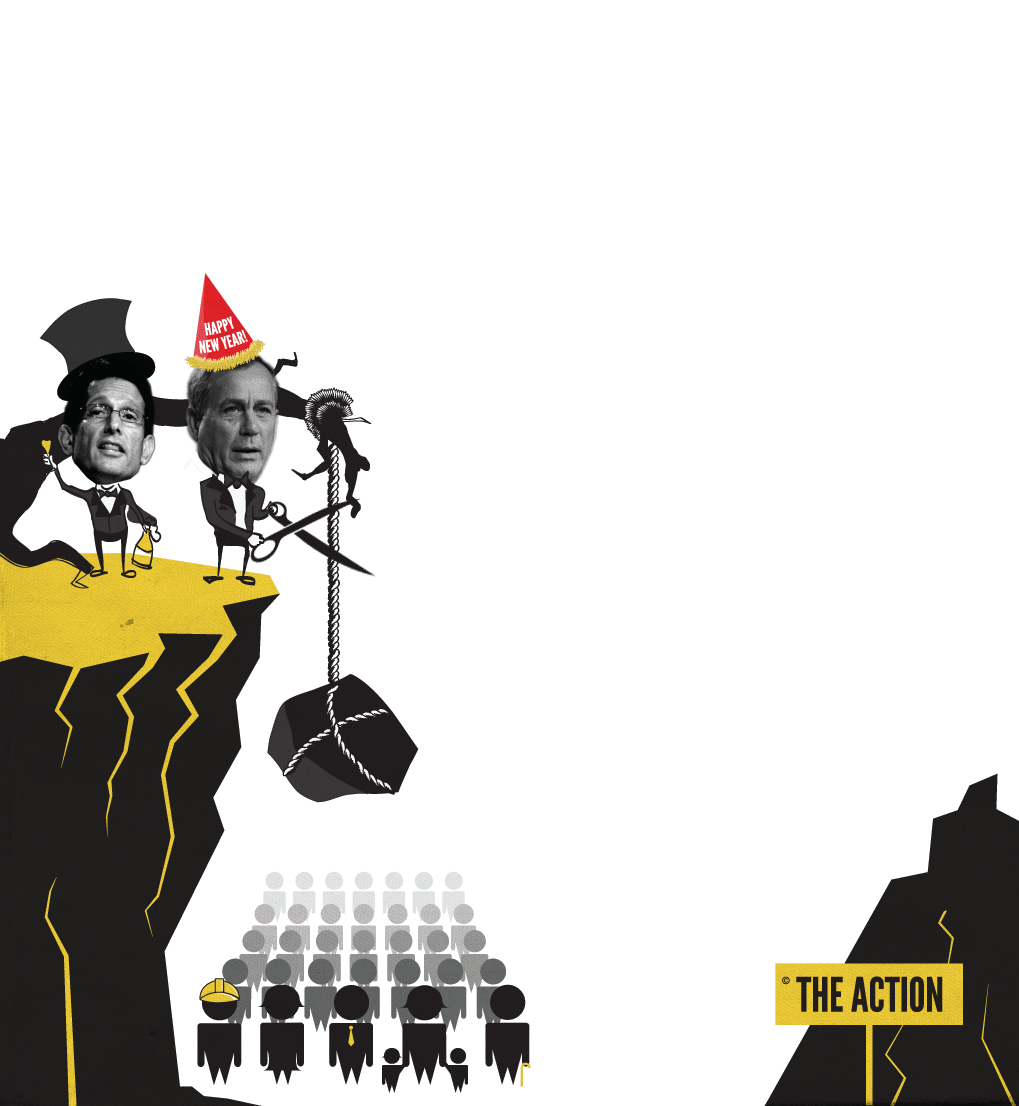
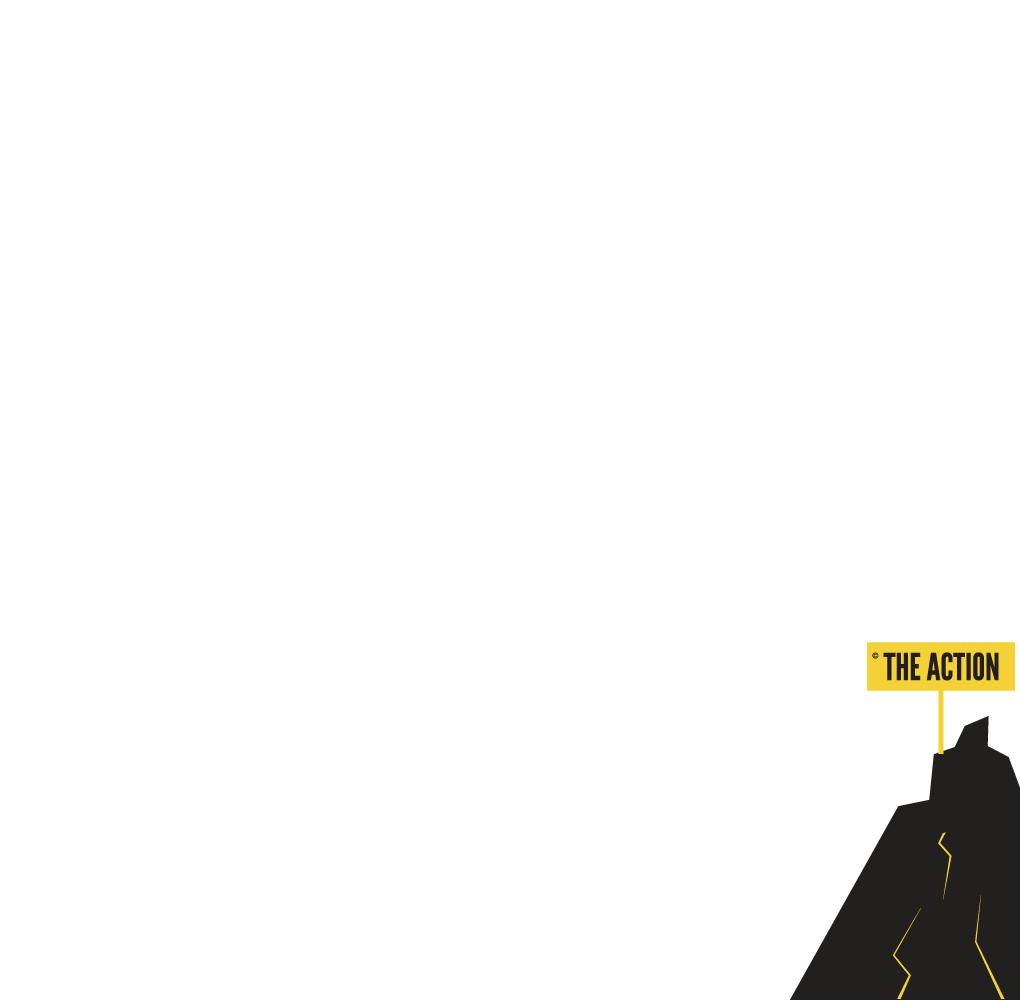
Sepereate the background images

diff --git a/index.html b/index.html
@@ -44,6 +44,9 @@
               <li><a class="twitter" title="Twitter" href="https://twitter.com/intent/tweet?text=Take%20action%20to%20resolve%20the%20fiscal%20cliff.%20Tell Congress:%20%23DontDropTheBall%20on%20the%20middle%20class.%20CliffCountdown.com%20%23TheAction"><span class="tooltip">Twitter</span></a></li>
               <li><a class="email" title ="Email" href="mailto:?Subject=Send John Boehner Coal!&body=Hi,%0D%0A%0D%0ADuring%20fiscal%20cliff%20negotiations,%20John%20Boehner%20has%20been%20desperate%20to%20protect%20the%20richest%20Americans%20at%20the%20expense%20of%20the%20rest%20of%20us.%20If%20he%20doesn&#x27;t%20take%20action%20by%20the%20end%20of%20the%20year,%20middle-class%20families%20will%20see%20their%20taxes%20increased%20by%20an%20average%20of%20$2,200.%0D%0A%0D%0AI%20just%20sent%20him%20coal%20for%20Christmas%20and%20told%20him%20to%20stop%20playing%20politics.%20You%20should%20too.%0D%0A%0D%0Ahttp://NaughtyBoehner.com"><span class="tooltip">Email</span></a></li>
             </ul>
+            <div id="cliff">
+              <img src="assets/img/cliff.png" />
+            </div>
           </div><!--./left-->
         </div>
         <div class="span7">

diff --git a/assets/css/droptheball.css b/assets/css/droptheball.css
@@ -14,20 +14,20 @@ body {
   padding-bottom: 20px;
   background-image: url('../img/background.png');
   background-repeat: no-repeat;
-  background-position: bottom left;
+  background-position: center center;
   -webkit-background-size: cover;
   -moz-background-size: cover;
   -o-background-size: cover;
   background-size: cover;
-  min-height: 1175px;
 }
 
-.row-fluid {
-  padding-bottom: 120px;
+.container-fluid {
+  padding-right: 0px;
+  padding-left: 0px;
 }
+
 
 #left-container {
-  margin-right:200px;
 }
 
 
@@ -35,7 +35,7 @@ body {
   font-family:"LeagueGothicRegular",Impact,Charcoal,sans-serif;
   font-size: 6.5em;
   text-transform: uppercase;
-  color: @black;
+  color: black;
   text-align: center;
 }
 
@@ -45,7 +45,6 @@ body {
   padding: 30px;
   color: black;
   background-color: #f6d205;
-  min-height: 900px;
 }
 .action {
   width: 70%;
@@ -176,7 +175,8 @@ p {
 
 
 .footer {
-  padding-top: 60px;
+  padding-top: 30px;
+  padding-right: 20px;
 }
 
 .footer a {
@@ -217,5 +217,4 @@ p {
 .email:hover {
   background: url('../img/email_yellow.png');
 }
-
 
